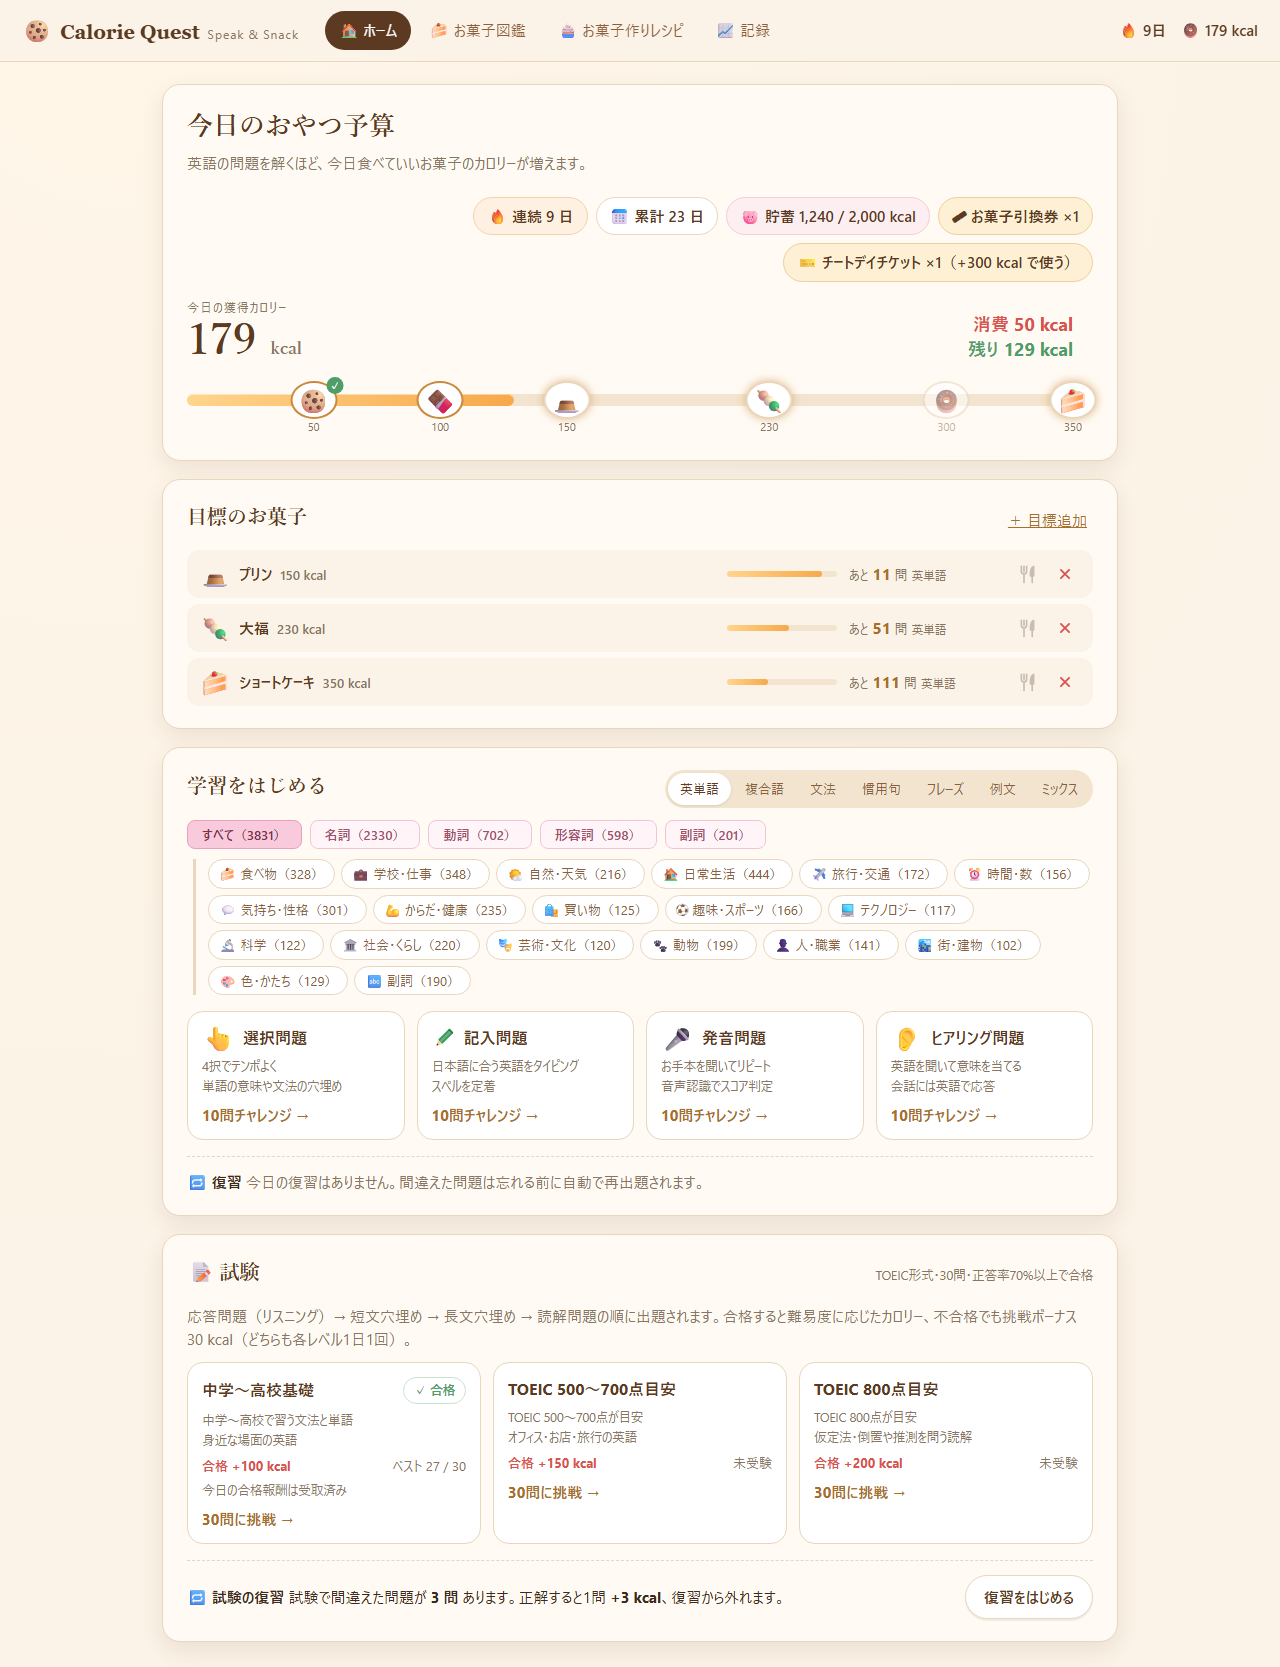
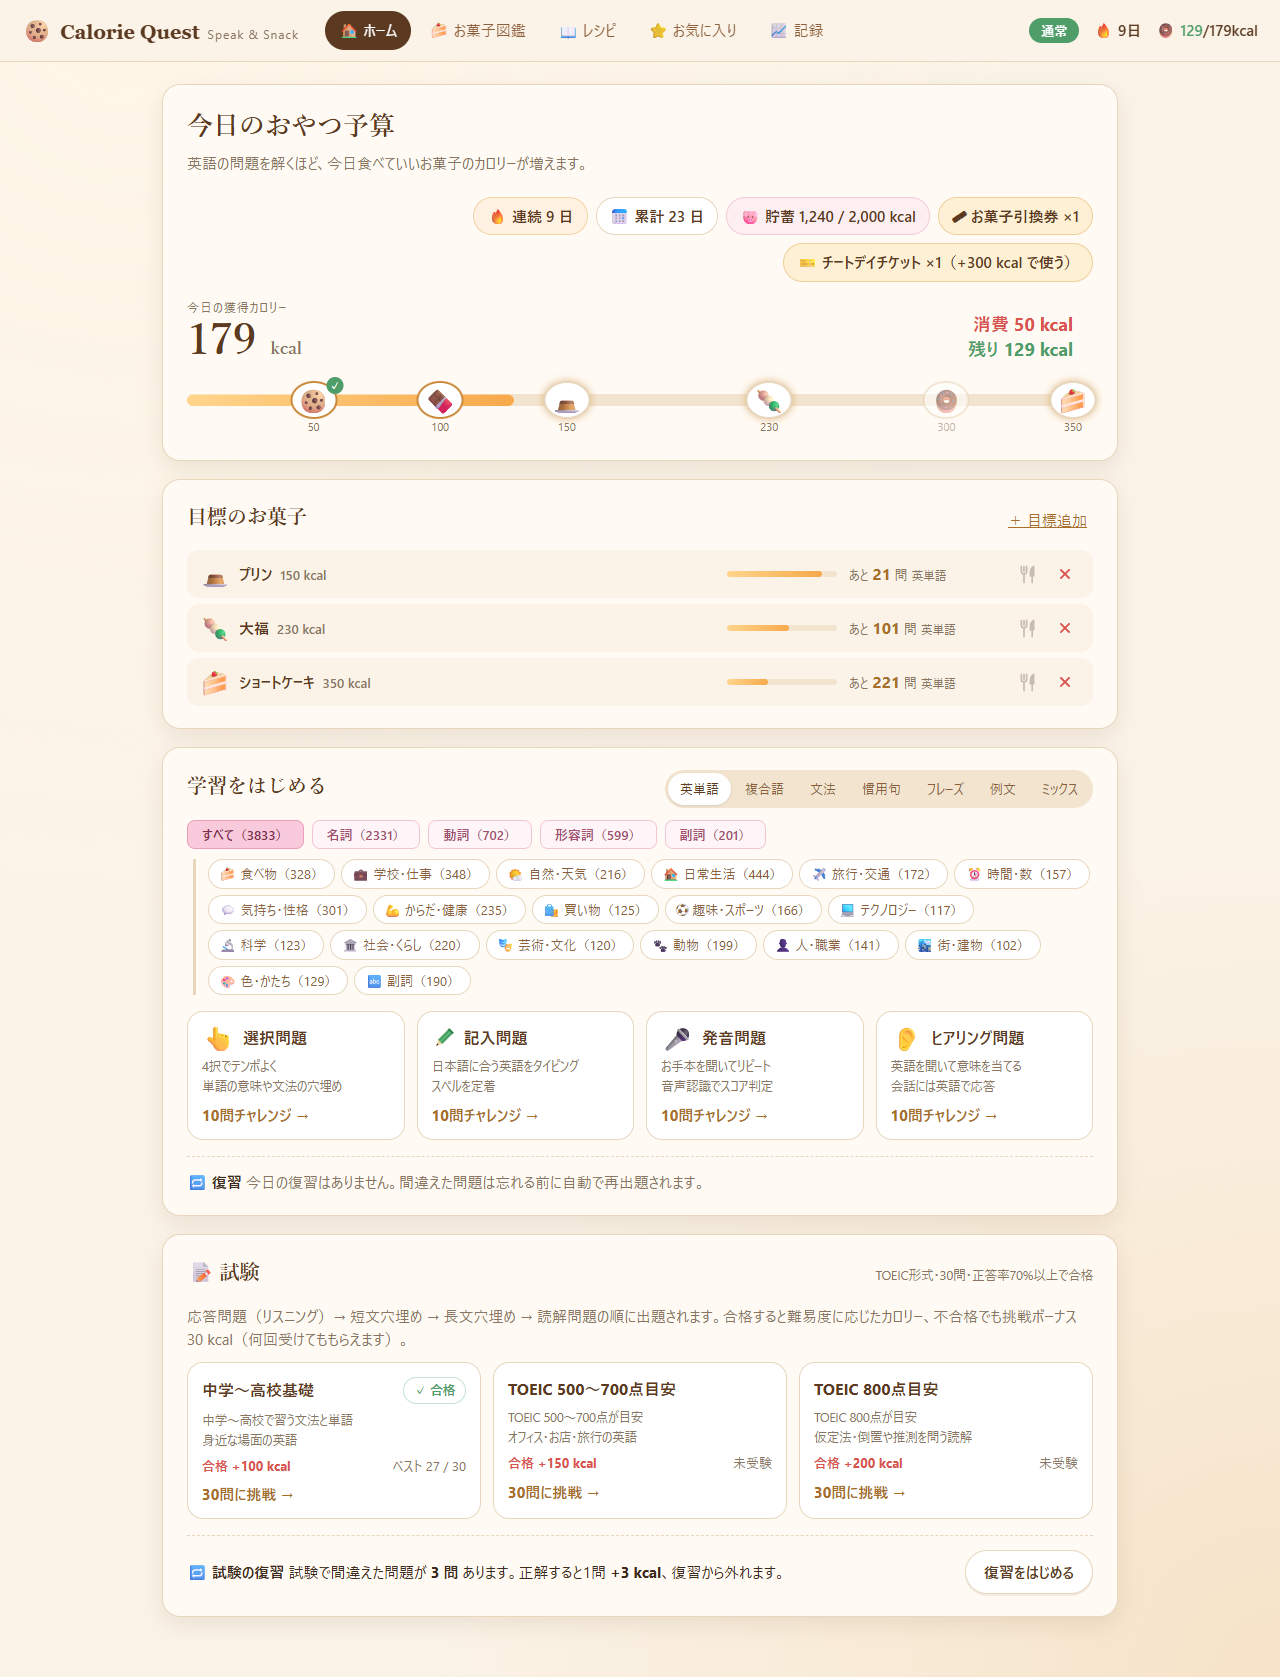
Retake the README screenshots, and show お気に入り and the new 記録
All eight screenshots are taken again in the browser preview, at 1280px, for
the screens as they are now: the top bar with the play mode and today's
remaining / earned kcal, 📖 レシピ and ⭐ お気に入り among the tabs, a word
question with the wrong options' English in green and its ★, a grammar answer
with a word's meaning on hover, an exam passage with the sentence put in, the
result, the recipe by part of speech, the snack book, and 記録 with its five
figures, the breakdown by tab and mode and the line chart of earned and eaten
kcal. A ninth, favorites.png, shows お気に入り with a grammar favorite opened.

The README pairs お気に入り with 記録 under the pictures, describes each picture
as it is, adds 遊び方 and 記録 to 主な機能, says what 129/179kcal in the top
bar is, and lists favorite.rs in 構成.

diff --git a/README.md b/README.md
@@ -3,7 +3,7 @@
 英語の問題を解くと「今日食べていいお菓子のカロリー」が貯まる、軽量な英語学習ゲームです。
 仕様は [docs/spec.md](docs/spec.md) を参照してください。
 
-![ホーム画面: 今日のおやつ予算（獲得・消費・残りのカロリーと、残りを示すお菓子アイコンのバー）、1行ずつの目標のお菓子（進み具合・あと何問・食べた・削除）、学習をはじめる（分類のタブ、名詞・動詞・形容詞・副詞とジャンルの絞り込み、4つの出題形式）、試験（3つの難易度と試験の復習）](docs/screenshots/home.png)
+![ホーム画面: 右上に遊び方（通常）・連続日数・今日の残り／獲得カロリー（129/179kcal）、今日のおやつ予算（獲得・消費・残りのカロリーと、残りを示すお菓子アイコンのバー）、1行ずつの目標のお菓子（進み具合・あと何問・食べた・削除）、学習をはじめる（分類のタブ、名詞・動詞・形容詞・副詞とジャンルの絞り込み、4つの出題形式）、試験（3つの難易度と試験の復習）](docs/screenshots/home.png)
 
 ## 主な機能
 
@@ -13,22 +13,24 @@
 - **レシピ（単語帳）**: 英文の単語・熟語・用法を右クリックで登録し、選択式・記入式で復習します。
 - **お気に入り**: 学習・試験の問題の右上の ☆ を押すと登録され、分類と出題形式で整理して解説ごと見返せます。お気に入りの問題だけを復習することもできます。
 - **お菓子図鑑と目標**: 貯まったカロリーでお菓子を「食べる」記録をつけます。目標のお菓子まであと何問かが分かり、使わなかったカロリーは貯蓄してお菓子引換券になります。
+- **遊び方（モード）**: がんばり（獲得カロリー ×0.5）・通常・お気軽（×1.5）を画面右上のボタンで切り替えられます。
+- **記録**: 学習日数・連続日数・1日あたりの平均獲得／消費カロリー、分類×出題形式ごとの獲得カロリー・回答数・正答率、この2週間の獲得・消費カロリーの折れ線グラフを見られます。
 
 | 単語問題の解説（例文・用法・類似表現） | 文法問題の解説と単語の意味 |
 | --- | --- |
-| ![英単語 discuss の選択問題に正解したところ。例文、用法 [discuss ～：about は付けない]、開いた類似表現（discuss と talk の違い）](docs/screenshots/word.png) | ![文法問題に正解したところ。完成した文、形容詞と副詞の使い分けの解説、単語にカーソルを合わせた意味の表示](docs/screenshots/study.png) |
+| ![英単語 discuss の選択問題に正解したところ。間違いの選択肢に緑で英語（spell・repeat・describe）、例文、用法 [discuss ～：about は付けない]、開いた類似表現（discuss と talk の違い）、右上の★（お気に入り）](docs/screenshots/word.png) | ![文法問題に正解したところ。完成した文、形容詞と副詞の使い分けの解説、単語 smiled にカーソルを合わせた意味の表示](docs/screenshots/study.png) |
 
 | 試験（TOEIC形式の長文穴埋め） | 試験の結果 |
 | --- | --- |
-| ![試験（TOEIC 500〜700点目安）の長文穴埋め。社内メールの空欄（1）（2）が埋まり、文挿入の正解と解説](docs/screenshots/exam.png) | ![試験の結果: 30問中25問正解（83%）で合格、おやつ予算 +150 kcal、パートごとの正答数と試験の復習への追加](docs/screenshots/exam-result.png) |
+| ![試験（TOEIC 500〜700点目安）の長文穴埋め。お知らせの空欄（1）（2）が埋まり、文挿入の正解と解説、文中の用法 connect A to/with B](docs/screenshots/exam.png) | ![試験の結果: 30問中25問正解（83%）で合格、おやつ予算 +150 kcal、パートごとの正答数と試験の復習への追加](docs/screenshots/exam-result.png) |
 
 | レシピ（単語帳） | お菓子図鑑（家計簿・貯蓄・並び替え） |
 | --- | --- |
-| ![レシピ: 品詞順にまとめた1行ずつの一覧（名詞・動詞・形容詞・副詞・慣用句・用法）、検索と並び替え、開いた用法 compare A with B の例文と訳](docs/screenshots/recipe.png) | ![お菓子図鑑: 今日のカロリー家計簿と取り消し、貯蓄の進み具合とお菓子引換券、並び替えできる1行ずつのお菓子の一覧（目標の★、食べた、引換券、自作の削除）](docs/screenshots/snacks.png) |
+| ![レシピ: 品詞順にまとめた1行ずつの一覧（名詞・動詞・形容詞・副詞・慣用句・用法、習得済みは緑）、タブ・検索・並び替え、開いた用法 compare A with B の例文と訳](docs/screenshots/recipe.png) | ![お菓子図鑑: 今日のカロリー家計簿と取り消し、貯蓄の進み具合とお菓子引換券、並び替えできる1行ずつのお菓子の一覧（目標の★、食べた、引換券、自作の削除）](docs/screenshots/snacks.png) |
 
-| 記録 |
-| --- |
-| ![記録画面: 累計学習日数・連続学習・正答率と、この2週間の獲得カロリー](docs/screenshots/stats.png) |
+| お気に入り | 記録 |
+| --- | --- |
+| ![お気に入り: 分類のタブと出題形式のチップ、1行ずつの要約（文法と試験の穴埋めは完成した文で答えを太字、文法ポイントのタグ）、開いた文法問題の解説、学習の問題・試験の問題それぞれの復習ボタン](docs/screenshots/favorites.png) | ![記録画面: 累計学習日数・連続学習・最長ストリーク・平均獲得／消費カロリー、累計獲得カロリー・回答数・正答率、開いた分類×形式別の獲得カロリーの表、この2週間の獲得（茶）と消費（赤）の折れ線グラフ](docs/screenshots/stats.png) |
 
 <sub>画面はブラウザプレビュー（`npm run dev`、モックデータ）で撮影したものです。数値はデモ用です。</sub>
 
@@ -112,6 +114,7 @@ cd src-tauri && cargo test
   打ち間違えも**間違えた語の分だけ減点**します。"He like cooking." と答えたら 1語ちがいで 2 kcal（違う語・抜けた語・余分な語がそれぞれ1語分）。完全に正解しなかった問題は、翌日の復習に回ります。回答後は「あなたの答え」で間違えた語に印が付きます。
 - 英単語の記入問題でヒントを1語でも開示すると **0 kcal**、複合語と慣用句の記入問題では **1語開示するごとに獲得カロリーが半分**になります（四捨五入）。
 - 記入問題のヒント（伏せ字）は、学習画面の「💡 ヒント常時表示」を ON にすると最初から表示されます。表示するだけなら減点はなく、単語を開示したときだけ上のとおり減点されます。
+- 画面右上の 🍩 の **129/179kcal** は、今日の **残りカロリー**（獲得 − 食べた分。緑、マイナスなら赤）／ **獲得カロリー** です。
 - 画面右上（🔥連続日数の左）のボタンで **遊び方（モード）** を切り替えられます。クリックするごとに **がんばり**（赤・すべての獲得カロリーが半分）→ **通常**（緑・等倍）→ **お気軽**（青・1.5倍）の順に変わり、カーソルを合わせると説明が出ます。学習・単語帳・試験・チートデイなど、カロリーがもらえるものすべてに掛かります（がんばりで英単語の選択問題に正解すると 0.5 kcal）。1 kcal に満たない端数はその日のうちに次の獲得と合わせて 1 kcal になり、日付が変わると切り捨てです。回答後のカロリーの横には「がんばり ×0.5」のように今のモードが出ます。
 - 復習（忘却曲線: 翌日 → 3日後 → 1週間後 → 2週間後 → 1か月後）で正解すると **×1.5**。
   復習は**間違えたときと同じ形式**で出題されます（記入問題で間違えたフレーズは記入問題で、選択問題で間違えた単語は選択問題で）。ホームの「復習をはじめる」では、今日の復習だけをそれぞれの形式で出題します。
@@ -267,7 +270,7 @@ src/                 React フロントエンド
   lib/mockBackend.ts ブラウザプレビュー用のインメモリ実装
   lib/dictionary.ts  単語の意味ポップアップ用の辞書引き（活用形の解決）
   lib/recipe.ts      右クリックでレシピに登録する仕組み
-  components/        カロリーバー、口の形の図解（SVG）、発音のコツ、単語ポップアップ、回答後の解説（成り立ち・例文・用法・類似表現）
+  components/        カロリーバー、口の形の図解（SVG）、発音のコツと発音記号、単語ポップアップ、回答後の解説（成り立ち・例文・用法・類似表現）、お気に入りの☆、遊び方の切り替え
   screens/           ホーム / 学習 / 試験 / お菓子図鑑 / レシピ / お気に入り / 記録
 src-tauri/
   src/db.rs          SQLite スキーマ、初期データ投入、辞書の構築
@@ -275,6 +278,7 @@ src-tauri/
   src/commands.rs    フロントから呼ぶコマンド（ユニットテスト付き）
   src/recipe.rs      レシピ（単語帳）の保存・復習（カロリー付与・タブの移動・間違えた回数）・除外・削除
   src/exam.rs        試験（TOEIC形式）の出題・採点・報酬・試験の復習
+  src/favorite.rs    お気に入りの登録・一覧・復習の記録
   src/speech.rs      SAPI5 読み上げ / WinRT 音声認識
   data/*.json        問題データ・会話データ・語彙集・文法解説・発音記号・単語の成り立ちと関連語・例文・用法・類似表現・慣用句の由来・品詞・混同しやすい語の組・試験問題（key で管理、追記可能）
 scripts/
